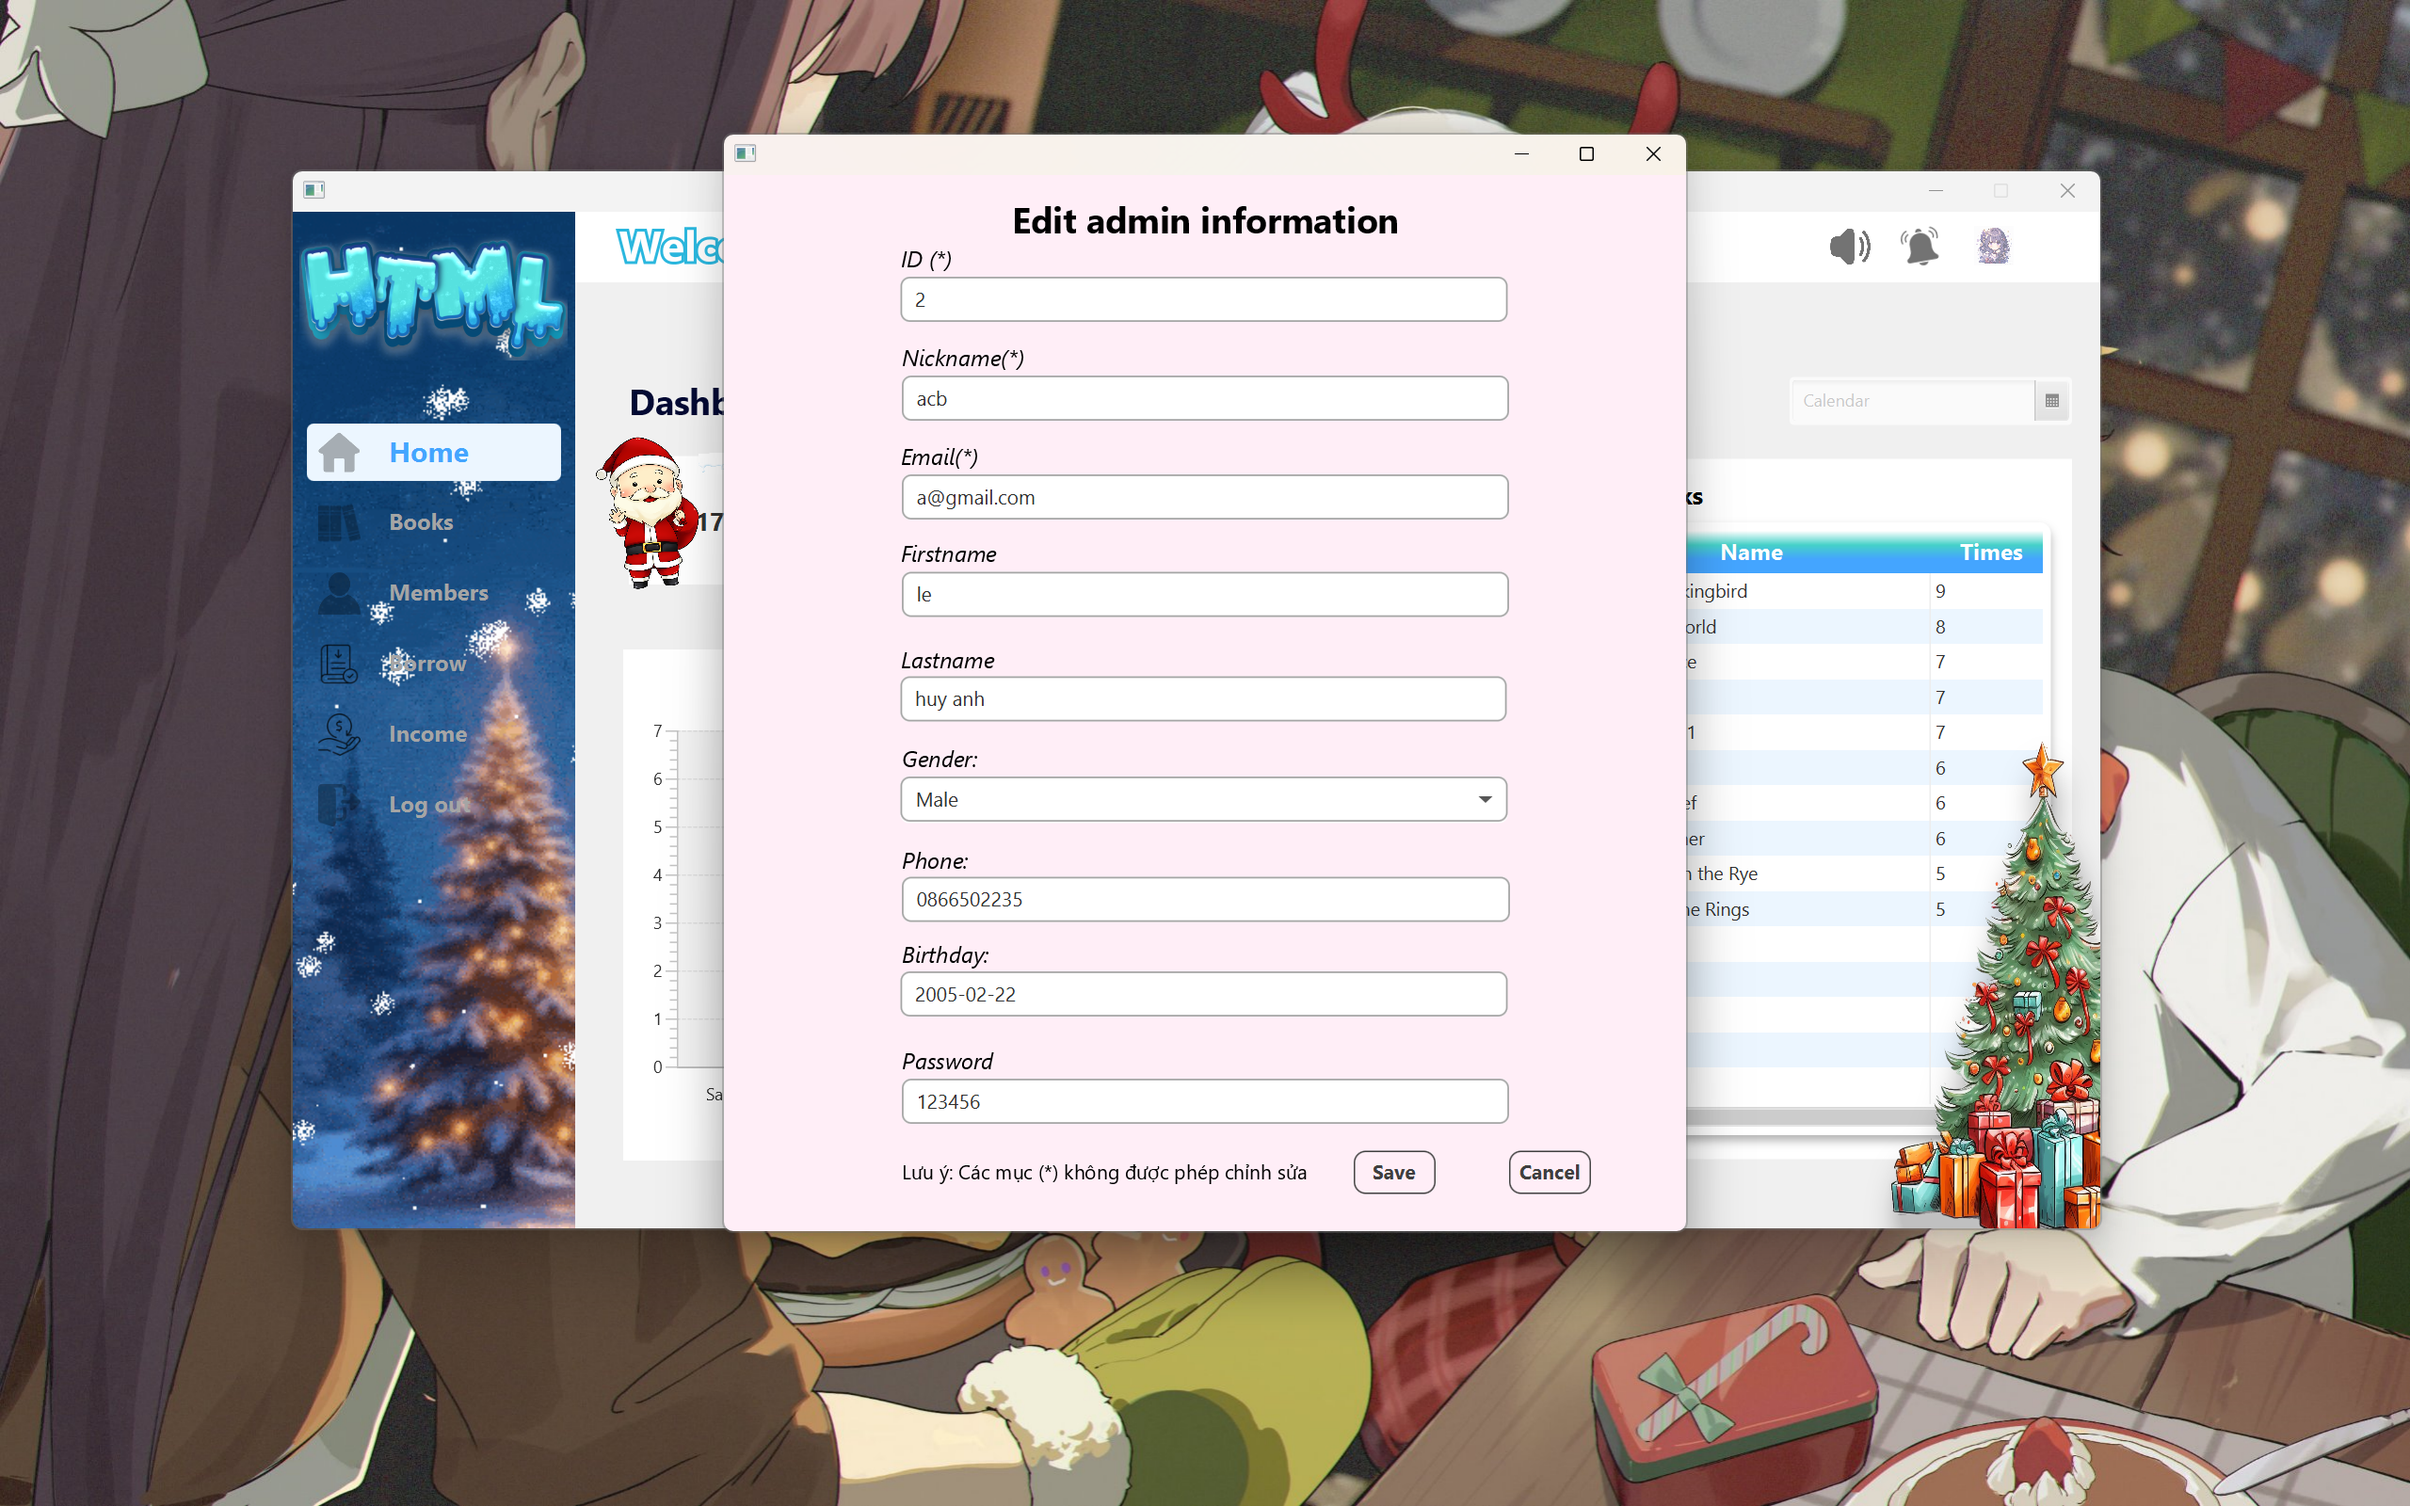
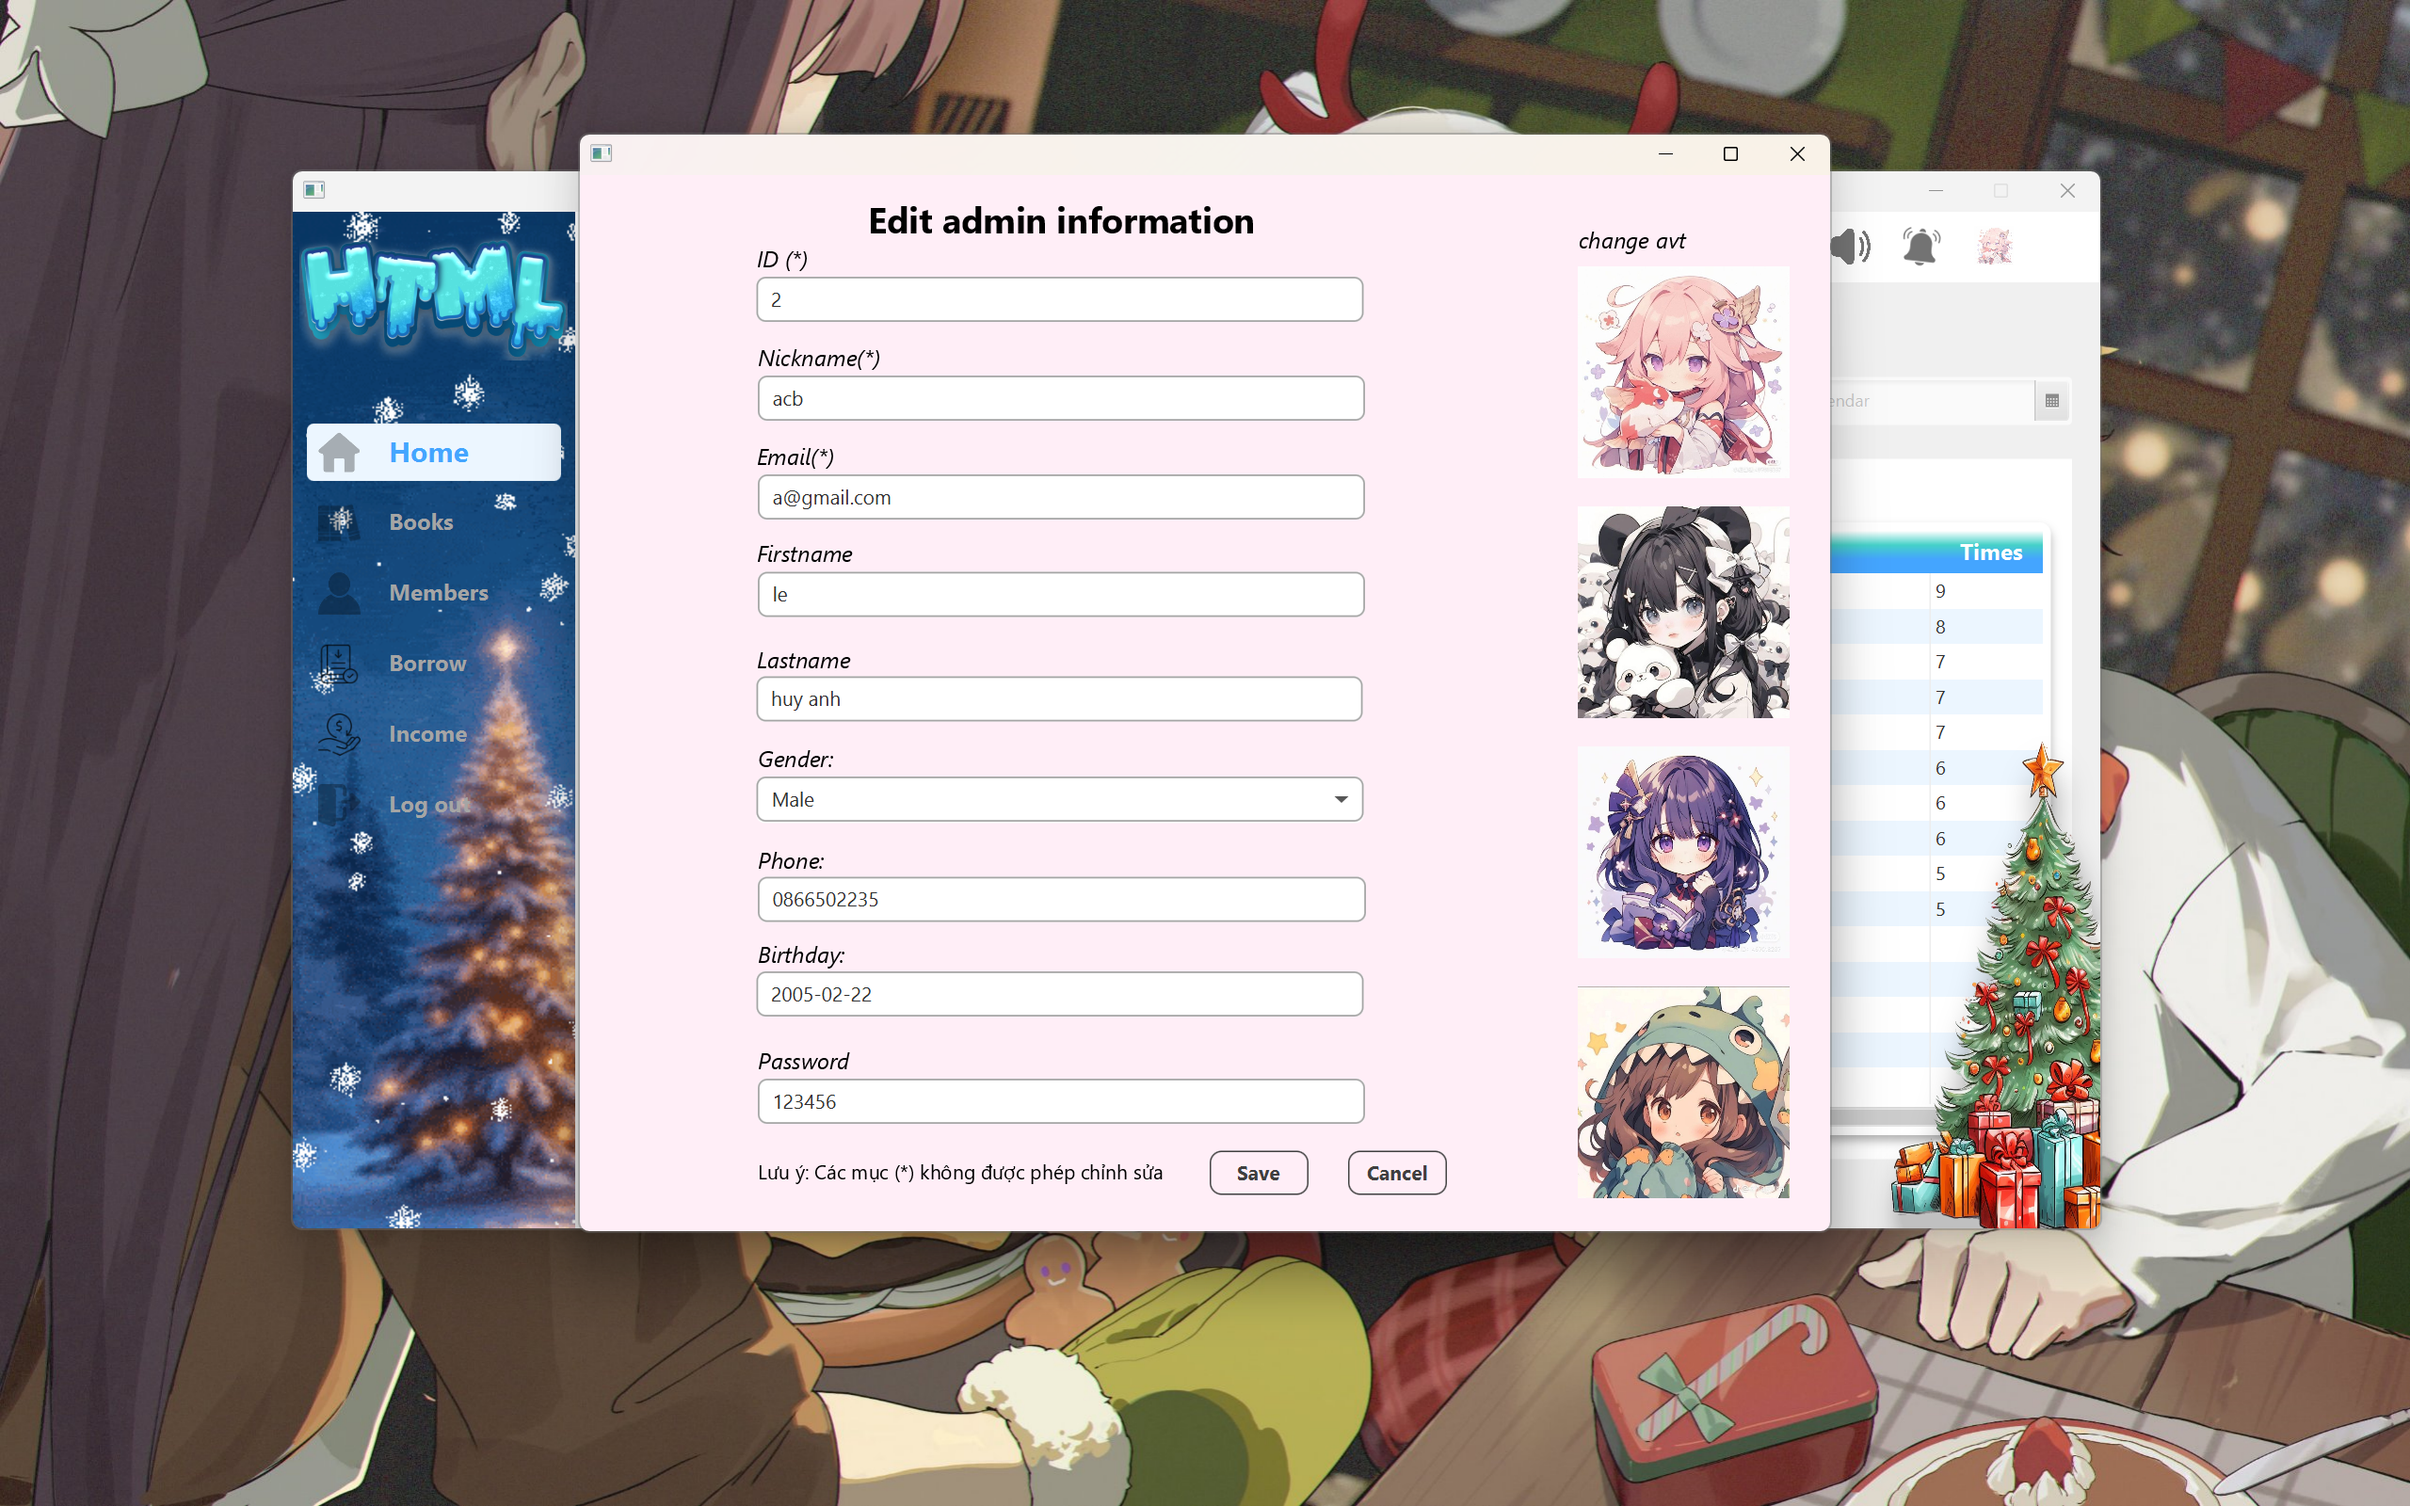
final

diff --git a/src/main/java/org/example/htmlfx/user/Admin_Edit.java b/src/main/java/org/example/htmlfx/user/Admin_Edit.java
@@ -5,6 +5,7 @@ import javafx.fxml.FXML;
 import javafx.scene.control.Alert;
 import javafx.scene.control.ComboBox;
 import javafx.scene.control.TextField;
+import javafx.scene.text.Text;
 import javafx.stage.Stage;
 import org.example.htmlfx.SceneController;
 import org.example.htmlfx.dashboard.DashboardControl;
@@ -53,6 +54,11 @@ public class Admin_Edit implements ParentControllerAware {
     @FXML
     private TextField info_phone;
 
+    @FXML
+    private Text image;
+
+    private String s;
+
     private Admin edittingAdmin;
 
     public void initialize() {
@@ -99,7 +105,7 @@ public class Admin_Edit implements ParentControllerAware {
         }
 
         String updateAdminSQL = "UPDATE Admins " +
-                "SET firstname = ?, lastname = ?, gender = ?, birth = ?, phone = ? , password = ?" +
+                "SET firstname = ?, lastname = ?, gender = ?, birth = ?, phone = ? , password = ?, image = ?" +
                 "WHERE email = ?";
 
         try (Connection connection = DatabaseConnection.getConnection();
@@ -112,6 +118,7 @@ public class Admin_Edit implements ParentControllerAware {
             String newBirthday = info_birthday.getText();
             String newPhone = info_phone.getText();
             String newPassword = info_password.getText();
+            String newImage = s;
 
             updateAdminStatement.setString(1, newFirstname);
             updateAdminStatement.setString(2, newLastname);
@@ -119,10 +126,22 @@ public class Admin_Edit implements ParentControllerAware {
             updateAdminStatement.setString(4, newBirthday);
             updateAdminStatement.setString(5, newPhone);
             updateAdminStatement.setString(6, newPassword);
-            updateAdminStatement.setString(7, email);
+            updateAdminStatement.setString(7, newImage);
+            updateAdminStatement.setString(8, email);
 
             int rowsAffected = updateAdminStatement.executeUpdate();
             if (rowsAffected > 0) {
+                edittingAdmin.setFirstname(newFirstname);
+                edittingAdmin.setLastname(newLastname);
+                edittingAdmin.setGender(newGender);
+                edittingAdmin.setBirthday(newBirthday);
+                edittingAdmin.setPhone(newPhone);
+                edittingAdmin.setPassword(newPassword);
+                edittingAdmin.setEmail(email);
+                edittingAdmin.setImage(newImage);
+
+                parentController.update(edittingAdmin);
+
 
                 showAlert(Alert.AlertType.INFORMATION, "Success", "User updated successfully.");
 
@@ -153,4 +172,29 @@ public class Admin_Edit implements ParentControllerAware {
     public void setParentController(Member_controller parentController) {
 
     }
+
+    @FXML
+    public void pick1() {
+        image.setText("Change avt No.1");
+        s="/img/avt/admin/image1.jpg";
+    }
+
+    @FXML
+    public void pick2() {
+        image.setText("Change avt No.2");
+        s="/img/avt/admin/image2.jpg";
+    }
+
+    @FXML
+    public void pick3() {
+        image.setText("Change avt No.3");
+        s="/img/avt/admin/image3.jpg";
+    }
+
+    @FXML
+    public void pick4() {
+        image.setText("Change avt No.4");
+        s="/img/avt/admin/image4.jpg";
+    }
+
 }

diff --git a/src/main/java/org/example/htmlfx/dashboard/DashboardControl.java b/src/main/java/org/example/htmlfx/dashboard/DashboardControl.java
@@ -31,6 +31,7 @@ import javafx.scene.control.Slider;
 import javafx.scene.layout.VBox;
 import org.example.htmlfx.toolkits.MenuEvent;
 import org.example.htmlfx.toolkits.Music;
+import org.example.htmlfx.user.Admin;
 import org.example.htmlfx.user.Member;
 
 import java.io.IOException;
@@ -86,6 +87,13 @@ public class DashboardControl {
         notificationListView.setVisible(false);
         if(notificationService.getNotifications().isEmpty()) {bellRing();}
 
+        String path = getClass().getResource(SceneController.getAdmin().getImage()).toExternalForm();
+        Image temp = new Image(path);
+        image.setImage(temp);
+    }
+
+    public void update(Admin admin) {
+        SceneController.setAdmin(admin);
         String path = getClass().getResource(SceneController.getAdmin().getImage()).toExternalForm();
         Image temp = new Image(path);
         image.setImage(temp);

diff --git a/src/main/java/org/example/htmlfx/SceneController.java b/src/main/java/org/example/htmlfx/SceneController.java
@@ -76,6 +76,10 @@ public class SceneController {
         return admin;
     }
 
+    public static void setAdmin(Admin admin) {
+        SceneController.admin = admin;
+    }
+
     public void handleSwitchScene(ActionEvent event) {
         try {
             Parent root = FXMLLoader.load(getClass().getResource("/org/example/htmlfx/dashboard/Dashboard.fxml"));
